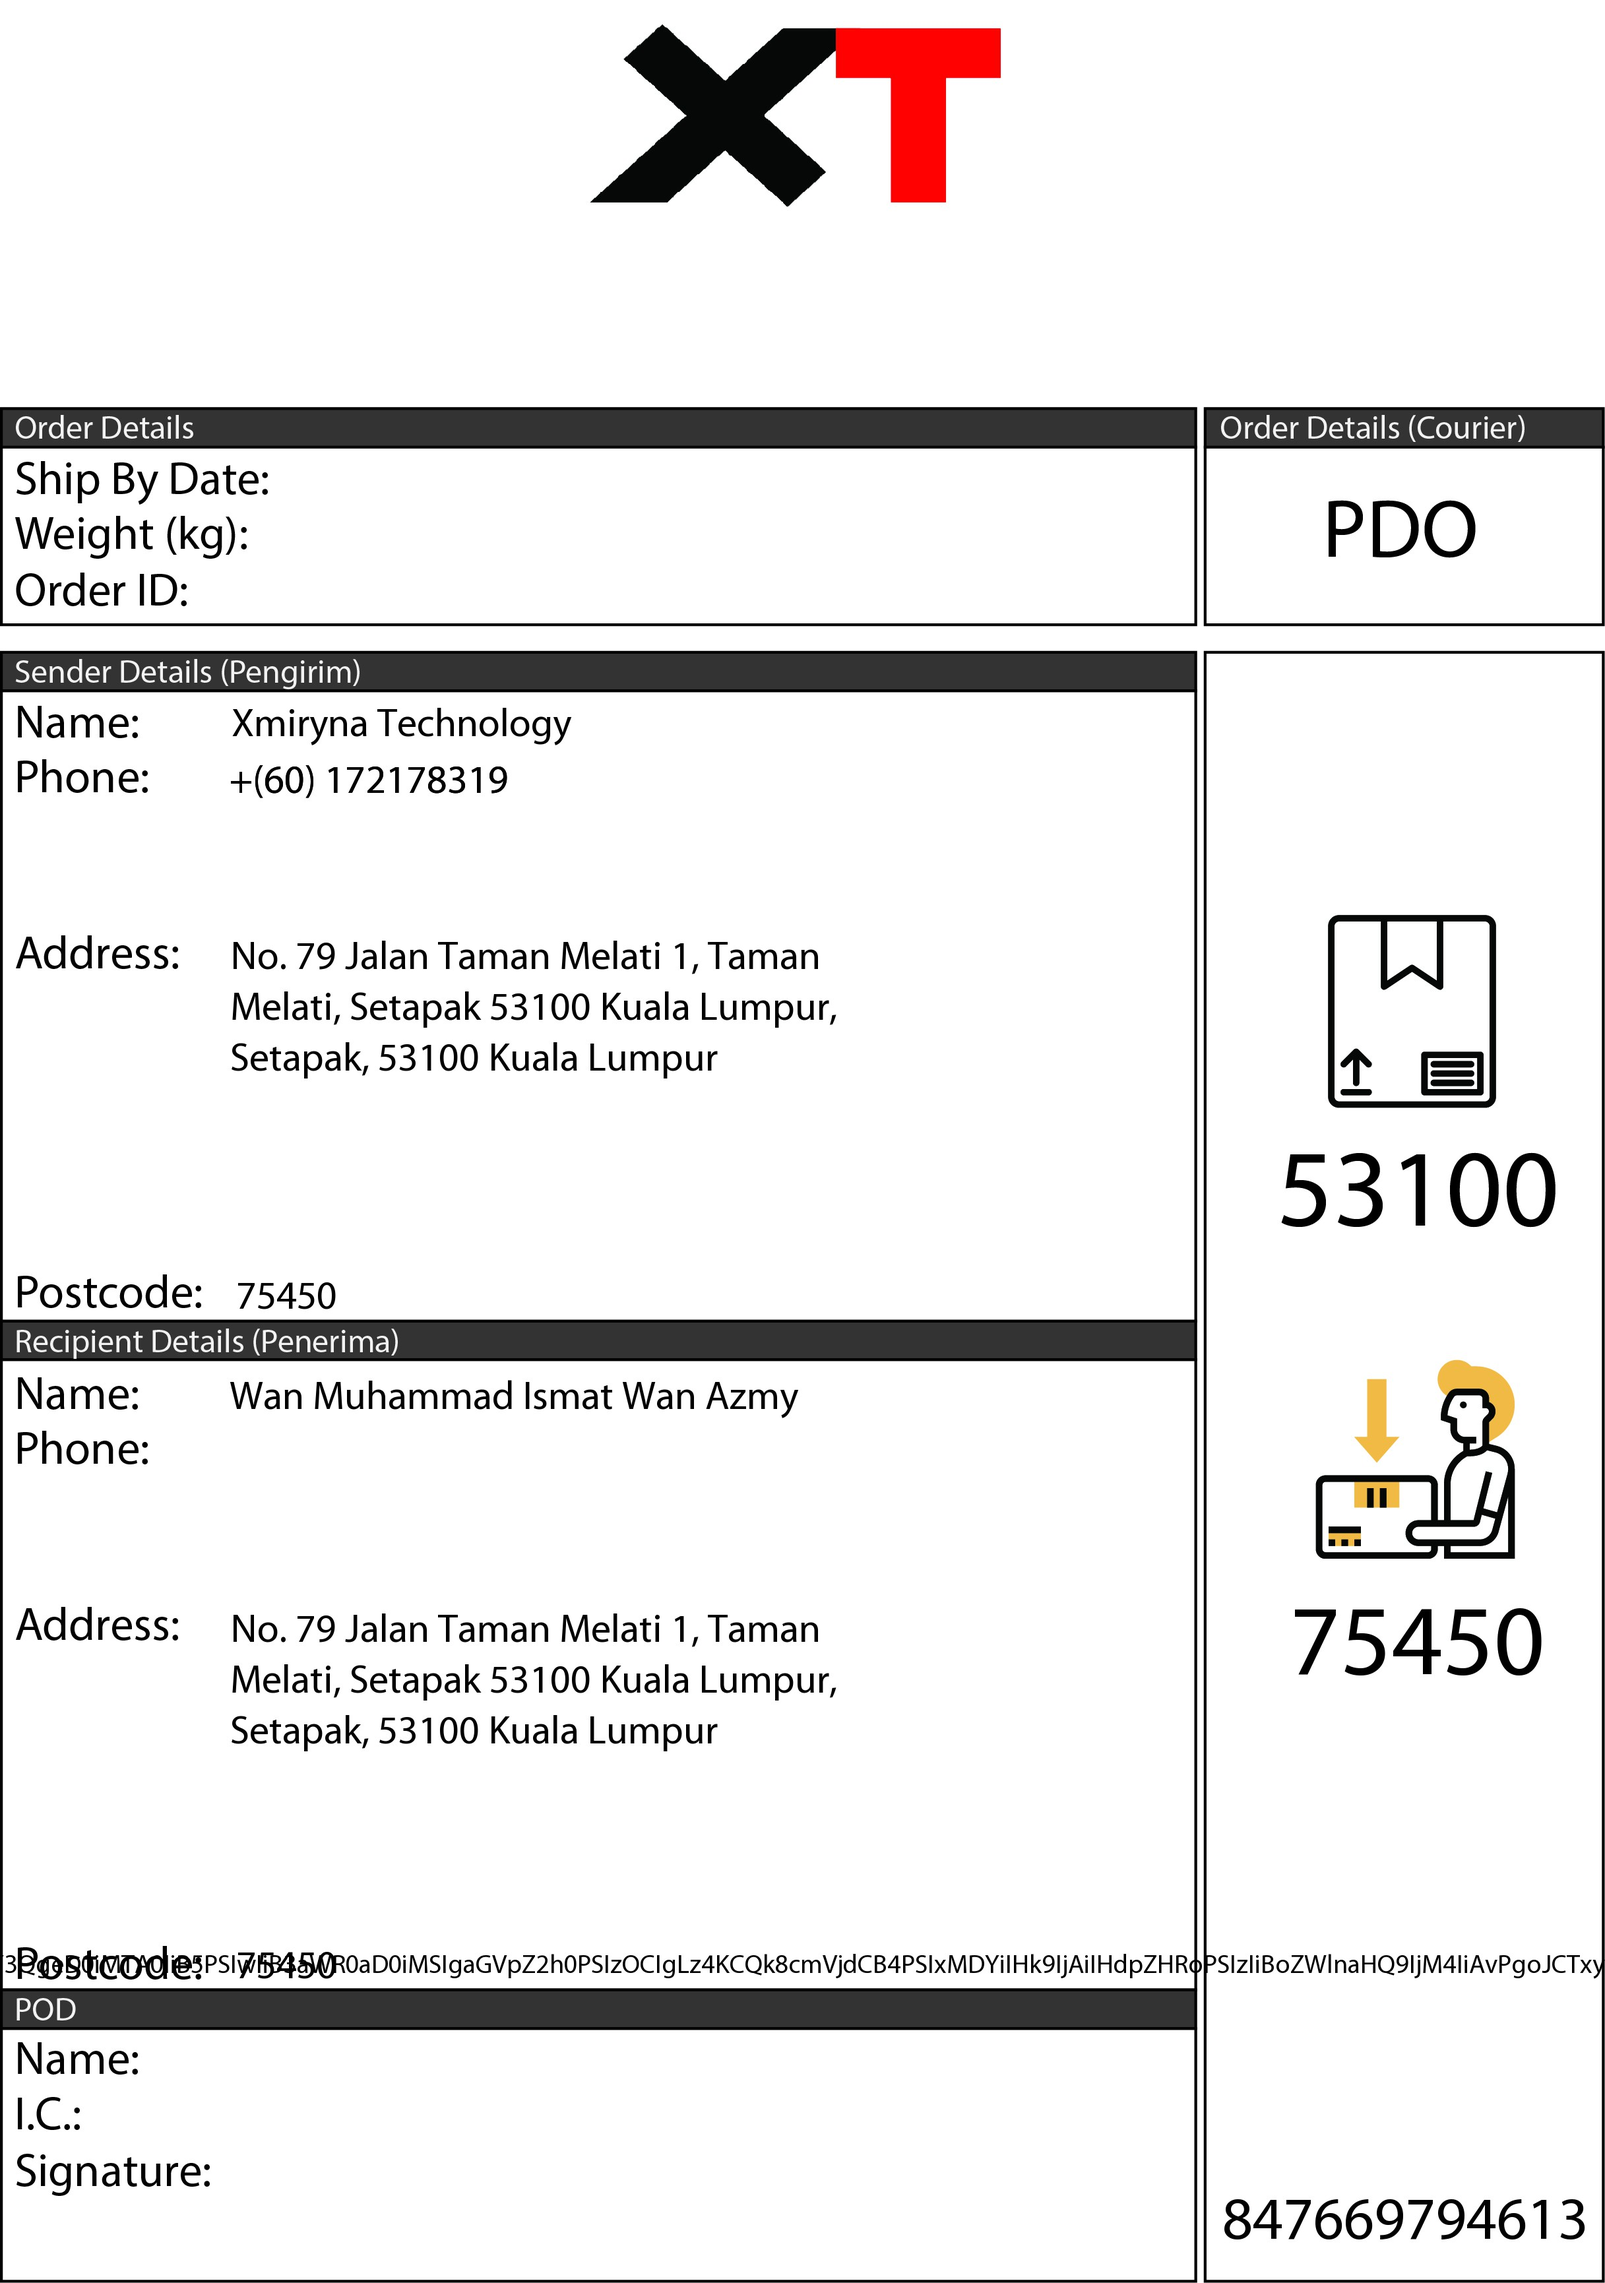
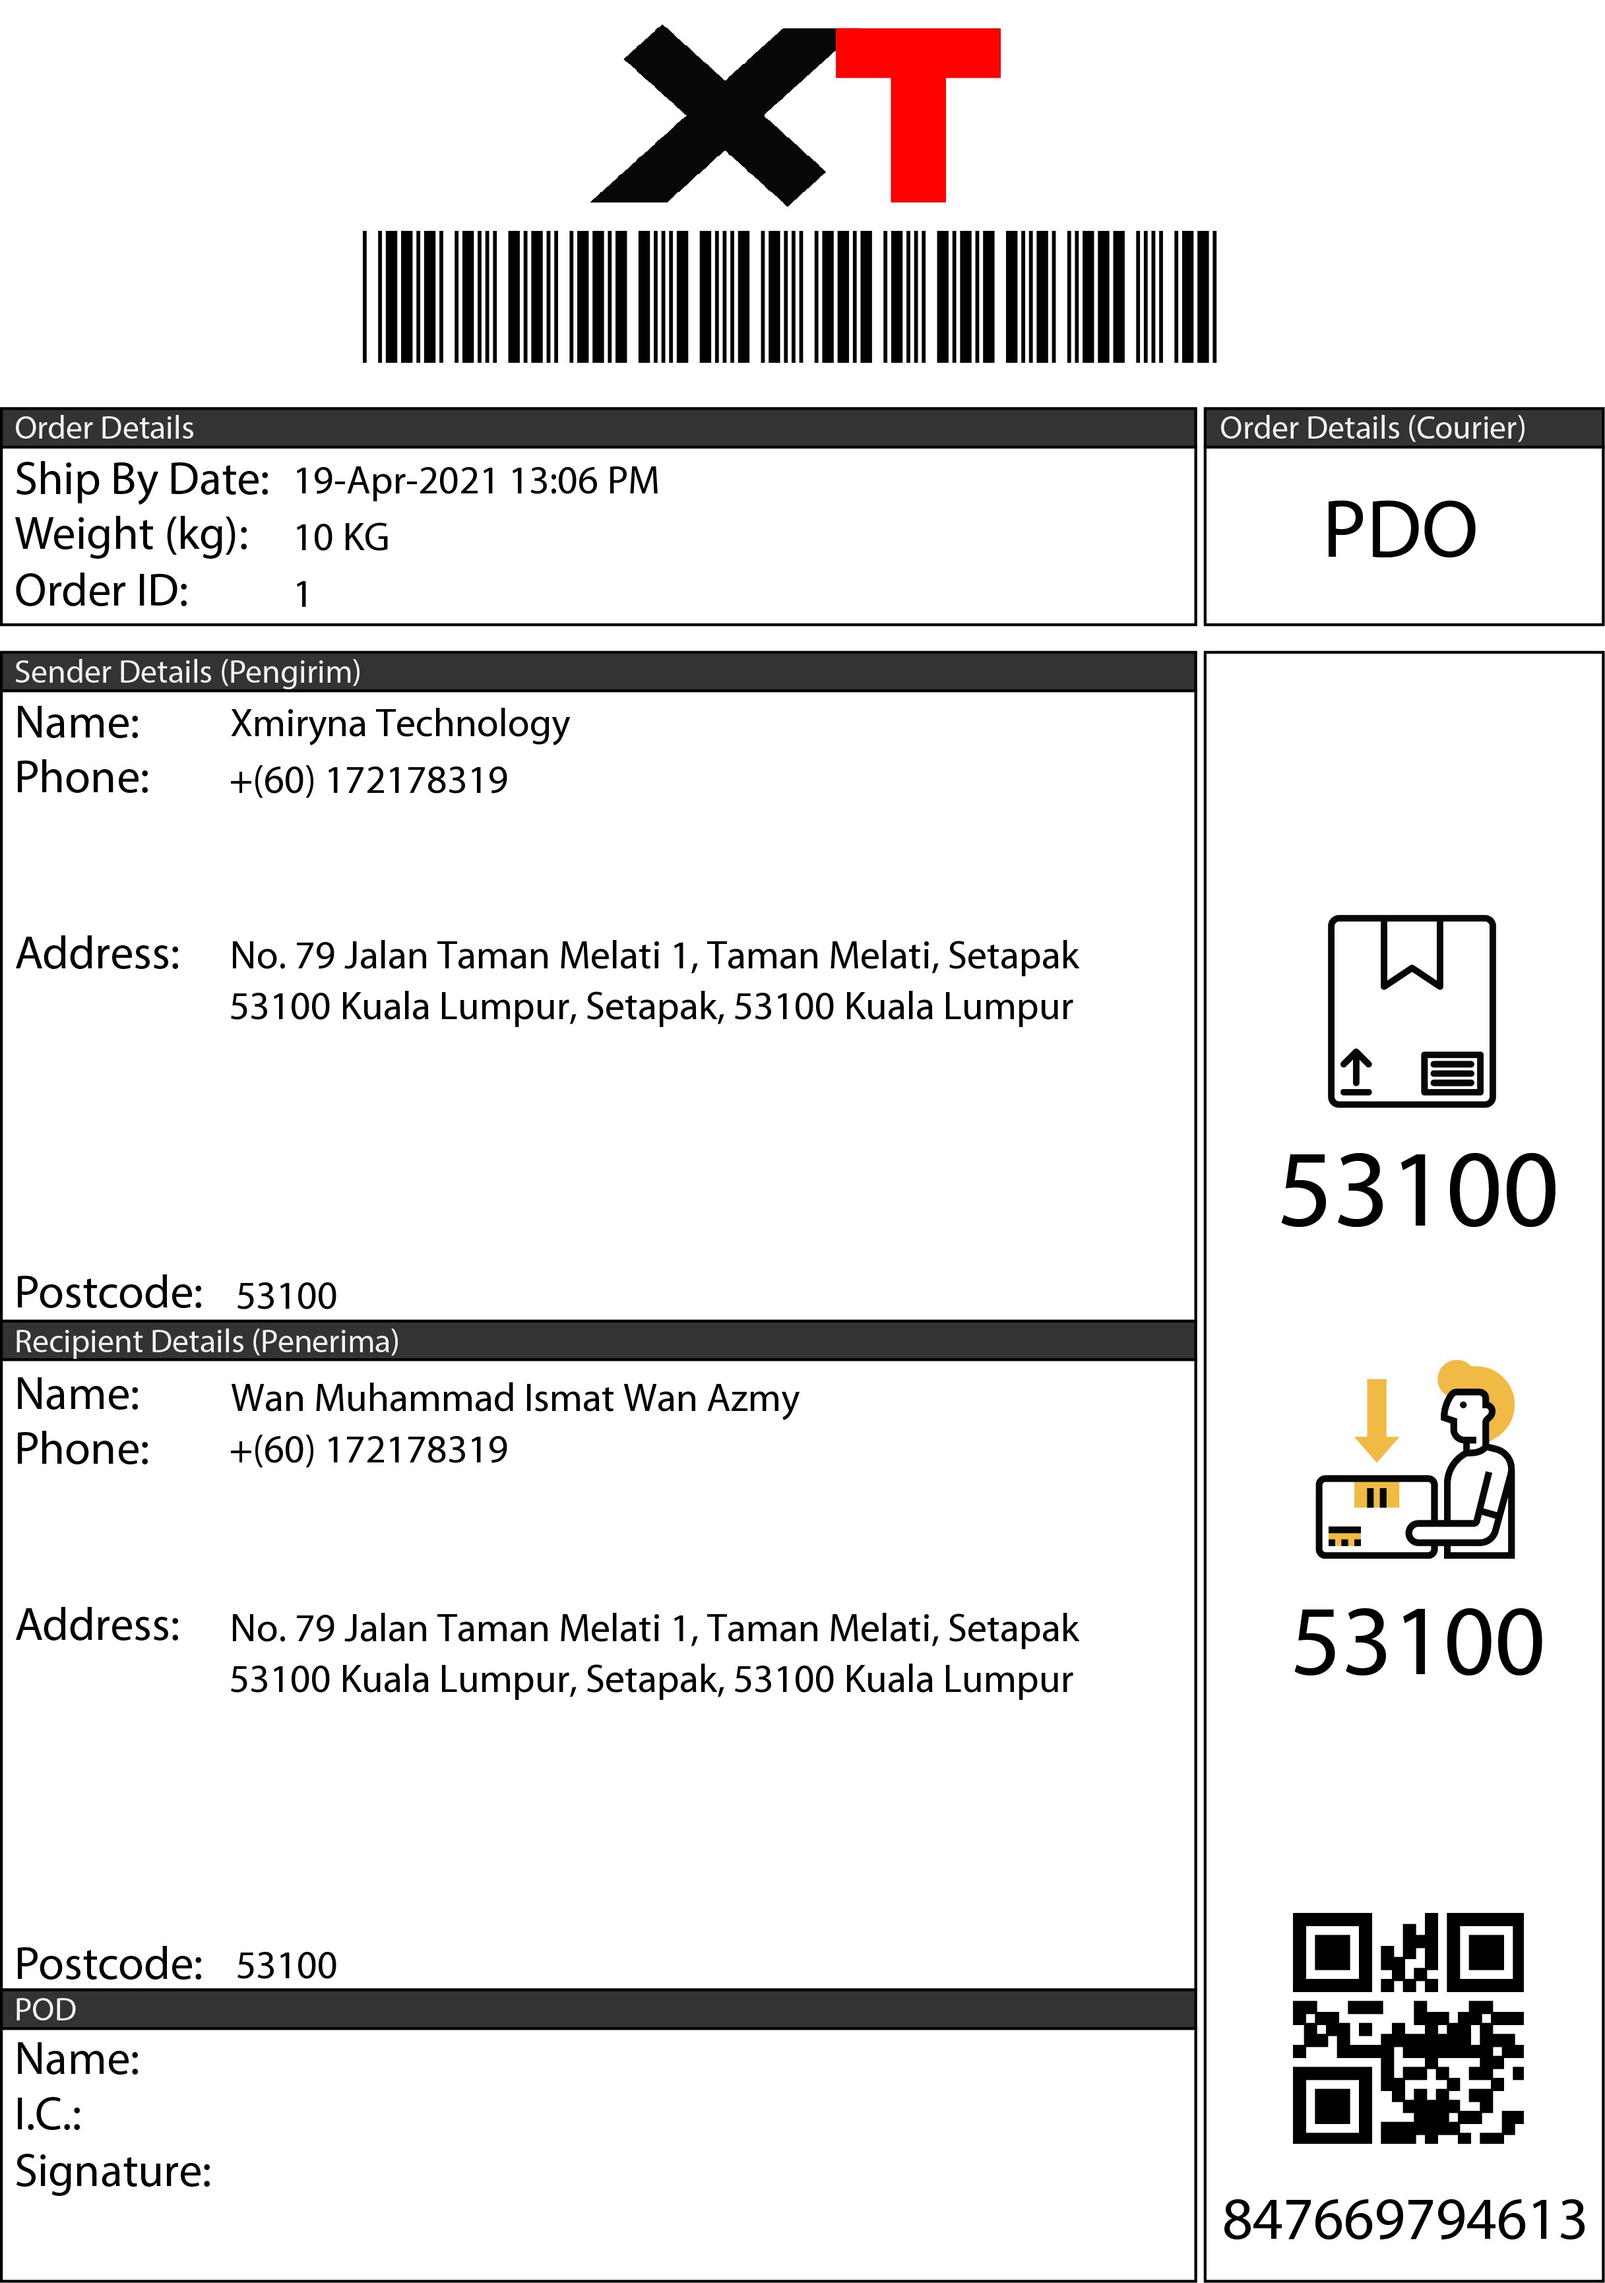
29th push, 19-4-2021. Airway Bill already completed, only some minors fix needed. Need to proceed with next progress. Maybe need to create receipt.

diff --git a/app/Http/Controllers/Order/OrderController.php b/app/Http/Controllers/Order/OrderController.php
@@ -111,43 +111,77 @@ class OrderController extends Controller
         $name = $recipientInfo->name;
         $companyName = 'Xmiryna Technology';
         $companyAddress = 'No. 79 Jalan Taman Melati 1, Taman Melati, Setapak 53100 Kuala Lumpur, Setapak, 53100 Kuala Lumpur';
+        $companyPostcode = '53100';
+        $companyPhoneNo = '172178319';
         $phone = $recipientInfo->phone_no;
         $address = $recipientInfo->address;
         $tracking = $recipientInfo->tracking_num;
-        $postcode_recipient = '75450';
+        $postcode_recipient = $recipientInfo->postcode;
+        $orderID = $recipientInfo->order_id;
+        $shipByDate = date('d-M-Y H:i A');
+        $weightItem = '10 KG';
 
-//        $qr_code_tracking = new DNS1D();
-//        $qr_code_tracking->getBarcodeSVG($recipientInfo->tracking_num, "C39", 1, 50, '#2A3239');
-
-        $qr_code_tracking = (new  DNS1D)->getBarcodeSVG($recipientInfo->tracking_num, "C39", 1, 50, '#2A3239');
+        $bar_code_tracking = (new DNS1D)->getBarcodePNG($tracking, "C39", 1, 50, array(1,1,1));
+        $qr_code_tracking = (new DNS2D)->getBarcodePNG('0'.$phone, "QRCODE", 5, 5, array(1,1,1));
 
         // Sender name.
         $img = Image::make(public_path('awb/airwaybill.jpg'));
-        $img->text($companyName, 610, 1130, function($font) {
+        $img->text($companyName, 350, 1130, function($font) {
             $font->file(public_path('awb/MYRIADPRO-REGULAR.ttf'));
             $font->size(60);
             $font->color('#000000');
-            $font->align('center');
+            $font->align('left');
+            $font->angle(360);
+        });
+        $img->save(public_path('awb/test-awb.jpg'));
+
+        // Ship By Date
+        $img->text($shipByDate, 450, 760, function($font) {
+            $font->file(public_path('awb/MYRIADPRO-REGULAR.ttf'));
+            $font->size(60);
+            $font->color('#000000');
+            $font->align('left');
+            $font->angle(360);
+        });
+        $img->save(public_path('awb/test-awb.jpg'));
+
+        // Weight
+        $img->text($weightItem, 450, 835, function($font) {
+            $font->file(public_path('awb/MYRIADPRO-REGULAR.ttf'));
+            $font->size(60);
+            $font->color('#000000');
+            $font->align('left');
+            $font->angle(360);
+        });
+        $img->save(public_path('awb/test-awb.jpg'));
+
+        // Order ID
+        $img->text($orderID, 450, 920, function($font) {
+            $font->file(public_path('awb/MYRIADPRO-REGULAR.ttf'));
+            $font->size(60);
+            $font->color('#000000');
+            $font->align('left');
             $font->angle(360);
         });
         $img->save(public_path('awb/test-awb.jpg'));
 
         // Sender address.
-        $charactersLimit = 40;
+        $charactersLimit = 50;
         $yourTextString = $companyAddress;
         $output = wordwrap($yourTextString, $charactersLimit);
 
-        $img->text($output, 810, 1635, function($font) {
+        $img->text($output, 350, 1425, function($font) {
             $font->file(public_path('awb/MYRIADPRO-REGULAR.ttf'));
             $font->size(60);
             $font->color('#000000');
-            $font->align('center');
+            $font->align('left');
+            $font->valign('top');
             $font->angle(360);
         });
         $img->save(public_path('awb/test-awb.jpg'));
 
         // Postcode sender.
-        $img->text($postcode_recipient, 435, 1985, function($font) {
+        $img->text($companyPostcode, 435, 1985, function($font) {
             $font->file(public_path('awb/MYRIADPRO-REGULAR.ttf'));
             $font->size(60);
             $font->color('#000000');
@@ -167,25 +201,27 @@ class OrderController extends Controller
         $img->save(public_path('awb/test-awb.jpg'));
 
         // Recipient address.
-        $charactersLimitt = 40;
+        $charactersLimitt = 50;
         $yourTextStringg = $address;
         $output = wordwrap($yourTextStringg, $charactersLimitt);
 
-        $img->text($output, 810, 2655, function($font) {
+        $img->text($output, 350, 2445, function($font) {
             $font->file(public_path('awb/MYRIADPRO-REGULAR.ttf'));
             $font->size(60);
             $font->color('#000000');
-            $font->align('center');
+            $font->align('left');
+            $font->valign('top');
             $font->angle(360);
         });
         $img->save(public_path('awb/test-awb.jpg'));
 
         // Recipient name.
-        $img->text($name, 780, 2150, function($font) {
+        $img->text($name, 350, 2095, function($font) {
             $font->file(public_path('awb/MYRIADPRO-REGULAR.ttf'));
             $font->size(60);
             $font->color('#000000');
-            $font->align('center');
+            $font->align('left');
+            $font->valign('top');
             $font->angle(360);
         });
         $img->save(public_path('awb/test-awb.jpg'));
@@ -201,21 +237,22 @@ class OrderController extends Controller
         $img->save(public_path('awb/test-awb.jpg'));
 
         // Sender phone no.
-        $img->text('+(60) '.$phone, 560, 1210, function($font) {
+        $img->text('+(60) '.$companyPhoneNo, 350, 1160, function($font) {
             $font->file(public_path('awb/MYRIADPRO-REGULAR.ttf'));
             $font->size(60);
             $font->color('#000000');
-            $font->align('center');
+            $font->align('left');
+            $font->valign('top');
             $font->angle(360);
         });
         $img->save(public_path('awb/test-awb.jpg'));
 
-        // Sender phone no.
-        $img->text('+(60) '.$phone, 560, 1210, function($font) {
+        // Recipient phone no.
+        $img->text('+(60) '.$phone, 350, 2225, function($font) {
             $font->file(public_path('awb/MYRIADPRO-REGULAR.ttf'));
             $font->size(60);
             $font->color('#000000');
-            $font->align('center');
+            $font->align('left');
             $font->angle(360);
         });
         $img->save(public_path('awb/test-awb.jpg'));
@@ -230,13 +267,13 @@ class OrderController extends Controller
         });
         $img->save(public_path('awb/test-awb.jpg'));
 
-        $img->text(base64_encode($qr_code_tracking), 2130, 3000, function($font) {
-            $font->file(public_path('awb/MYRIADPRO-REGULAR.ttf'));
-            $font->size(40);
-            $font->color('#000000');
-            $font->align('center');
-            $font->angle(360);
-        });
+        \Storage::disk('public')->put('test'.$tracking.'.png', base64_decode($bar_code_tracking));
+        \Storage::disk('public')->put('lol'.$tracking.'.png', base64_decode($qr_code_tracking));
+
+        $barcode = Image::make('storage/test'.$tracking.'.png')->resize(1300, 200);
+        $qrcode = Image::make('storage/lol'.$tracking.'.png')->resize(350, 350);
+        $img->insert($barcode, 'top-left', 550, 350);
+        $img->insert($qrcode, 'top-left', 1960, 2900);
         $img->save(public_path('awb/test-awb.jpg'));
 
         return response($img)->header('Content-type','image/png');

diff --git a/config/app.php b/config/app.php
@@ -162,7 +162,7 @@ return [
         Illuminate\Validation\ValidationServiceProvider::class,
         Illuminate\View\ViewServiceProvider::class,
         Milon\Barcode\BarcodeServiceProvider::class,
-        Intervention\Image\ImageServiceProvider,
+        Intervention\Image\ImageServiceProvider::class,
 
         /*
          * Package Service Providers...
@@ -231,7 +231,7 @@ return [
         'View' => Illuminate\Support\Facades\View::class,
         'DNS1D' => Milon\Barcode\Facades\DNS1DFacade::class,
         'DNS2D' => Milon\Barcode\Facades\DNS2DFacade::class,
-        'Image' => 'Intervention\Image\Facades\Image',
+        'Image' => Intervention\Image\Facades\Image::class,
 
     ],
 
